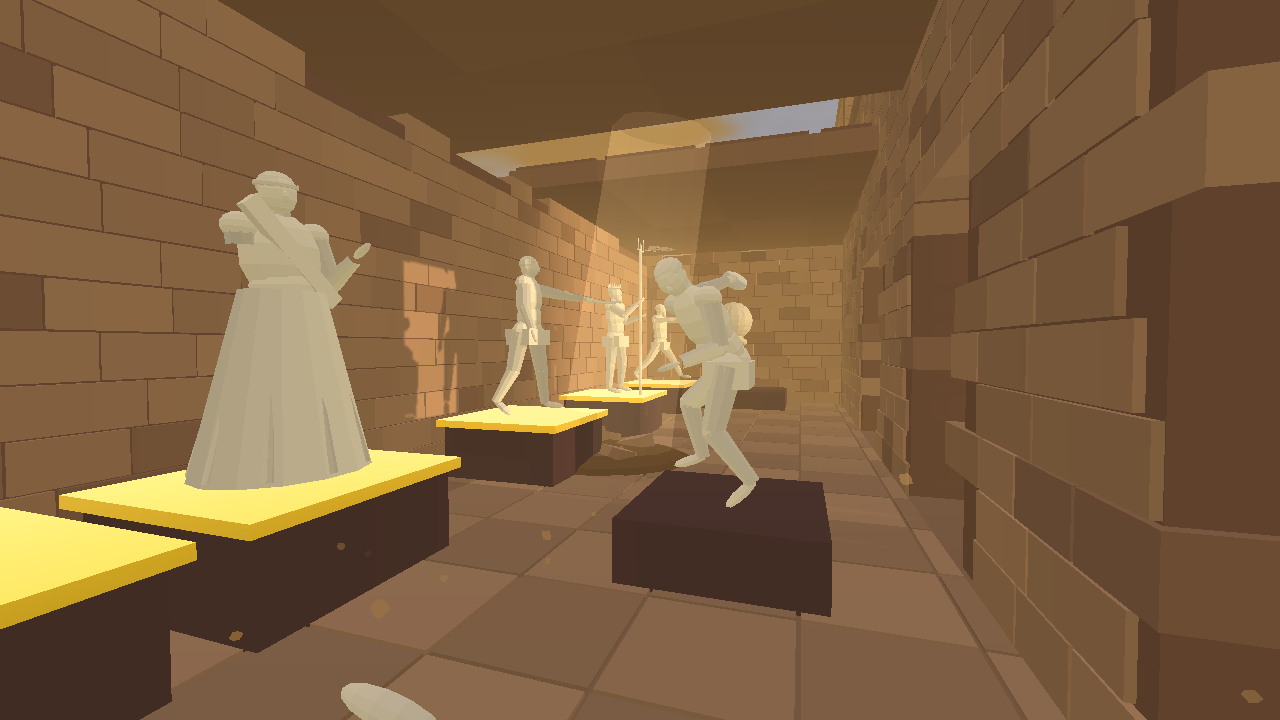
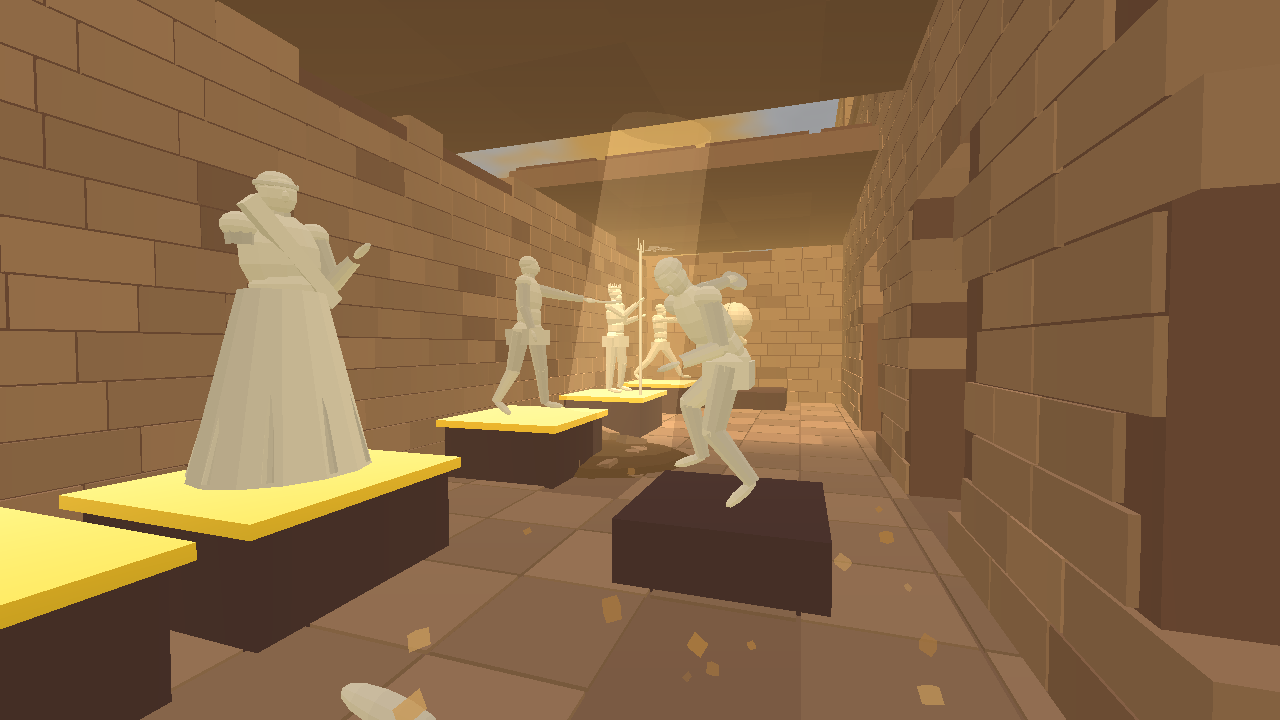
The Gods' temple: a gift of the gods in full — and +100 mana cells on its scrolls
- one check for every destructive effect: Temple.isGodGiftAt / temple.wards — blasts (Game.applyExplosion),
  Inspirius, Total Destruction, lightning stop on its golden ward (a dome of gold light, gold sparks — seen and
  heard); nobody within its bounds is thrown (CreatureImpact.apply) or shaken (the quake); no block of its
  ground breaks (TerrainData.set / removeSphere ask data.godGiftAt — Gather, Earthquake, Levitation Maxima…)
- its floor never throws a body out sideways: a landing's squat a little under it is lifted back onto it
- the scrolls and the Codex: the first use of each of the four spells gives +100 mana cells for good
- unit test: a blast at the temple breaks no block (elsewhere it digs as always)

Claude-Session: https://claude.ai/code/session_019o7nVNruUGPXgYFnbV15n6

diff --git a/src/ui/Codex.js b/src/ui/Codex.js
@@ -137,7 +137,7 @@ export const ITEMS = [
         { cat: 'magic', name: '🐉 Палочка дракона', desc: 'Остаётся от побеждённого дракона. Очень красивая: тёмно-алое дерево, по нему чешуйки, на конце чёрный коготь держит светящийся уголёк. Все огненные заклинания с ней на 60% сильнее: «Инферно», «Fire» (костёр горит дольше), «Fire Maxima», «Let the Hellfire Come». Маны — как обычно. Остальные заклинания — на 15% сильнее, как с любой палочкой.', dmg: 'огонь +60%', icon: 'assets/icons/inferno.png' },
     { cat: 'magic', name: '🌟 Костюм Высшего мага', desc: 'Тёмно-синий длинный камзол с плащом: золотые узоры, золотой пояс с сапфиром, светящиеся голубые руны. Даётся только тем, кто получил все ачивки, — появляется у вас в ячейке с золотой вспышкой. Наденьте руками: приложите к груди. Защищает как волшебная мантия (холод и простейшие заклинания не берут) и сверх того любое заклинание ранит на 40% слабее. Не слетает от «Disarmor»; при смерти падает рядом с телом, как всё остальное (его можно забрать). Надеть его может только Высший маг. В сундуках и у торговцев его нет.' },
     { cat: 'magic', name: 'Свиток', desc: 'Подожгите его в руке («Инферно»): +1–5 здоровья или +1–10 маны. Свитки «Lightning Strike» (золотая лента), «Thunderwave» (синяя), «To the Sun» (оранжевая), «Alive» (коричневая), «Let it rain» (серебряная), очень редкий «Авада Кедавра» (зелёная) и самый редкий «Total Destruction» (чёрная) учат эти заклинания — вне Творческого режима без свитка их нет. Действует на того, кто сжёг, и в «Выживании» тоже (здоровье там растёт и сразу лечит). Прочитать может каждый: поднесите вторую (пустую) руку раскрытой к концу свитка и сожмите пальцы на валике, потом разведите руки — он развернётся между ними; сведите — свернётся между руками; разожмите вторую руку — она отпустит валик, и свиток снова свёрнут в первой руке. Его можно бросить или убрать в карман.', dmg: '—', icon: 'assets/icons/inferno.png' },
-        { cat: 'magic', name: '📜 Свитки богов', desc: 'Четыре древних свитка лежат только в одном месте — в библиотеке заброшенного храма богов на Венере, каждый парит над своим пьедесталом: «Create a Planet» (синяя лента со звёздами) — создать планету, «Enlarge Planet» (коралловая) — увеличить планету, «Terraform Planet» (изумрудная) — терраформировать планету, «Wingardium Leviosa Super Maxima» (жемчужная) — двигать планету в космосе. Берутся рукой, раскрываются другой рукой, как любой свиток; выучит заклинание тот, кто сожжёт свиток («Инферно»). Взятый свиток через полторы минуты снова появляется на своём пьедестале — хватит всем игрокам.' },
+        { cat: 'magic', name: '📜 Свитки богов', desc: 'Четыре древних свитка лежат только в одном месте — в библиотеке заброшенного храма богов на Венере, каждый парит над своим пьедесталом: «Create a Planet» (синяя лента со звёздами) — создать планету, «Enlarge Planet» (коралловая) — увеличить планету, «Terraform Planet» (изумрудная) — терраформировать планету, «Wingardium Leviosa Super Maxima» (жемчужная) — двигать планету в космосе. Берутся рукой, раскрываются другой рукой, как любой свиток; выучит заклинание тот, кто сожжёт свиток («Инферно»). Первое использование каждого из этих четырёх заклинаний даёт +100 ячеек маны. Взятый свиток через полторы минуты снова появляется на своём пьедестале — хватит всем игрокам.' },
     { cat: 'magic', name: 'Книга заклинаний', desc: 'Падает с птицы-книги, если сбить её заклинанием. В руке её держат как настоящую: край книги между большим пальцем и остальными, пальцы лежат на обложке и не проходят сквозь страницы. Её можно бросить, убрать в карман, передать. Второй рукой возьмите книгу за край обложки (сожмите пальцы) и разведите руки — книга раскроется настолько, насколько разведены руки; наклоните кисти — наклонится и книга. Разожмёте руку ладонью вверх — книга ляжет на ладонь; упадёт она, только если разжать вытянутую руку. Чтобы листать, отпустите одну руку, подденьте кончиком указательного пальца край страницы и переведите её на другую сторону; отпустили раньше середины — страница ляжет обратно. Прочитанное заклинание выучено. Сожжёте книгу («Инферно» с книгой в руке, пламя или огонь) — выучите все её заклинания.', icon: 'assets/icons/gather.svg' },
     { cat: 'magic', name: '📘🛡 Книга защиты (летающая)', desc: 'Особая книга-птица: тёмно-синяя обложка с серебряной каймой, серебряный щит на каждой обложке и слабое голубое сияние вокруг. Встречается так же часто, как обычные книги-птицы. Её бережёт магия: «Авада Кедавра», все дуэльные заклинания, лучи, взрывы, стрелы, «Левиоса», ветер отскакивают от её сияния искрой. Сбить её можно только прямым попаданием огня (пламя «Инферно», «Let the Hellfire Come») или ледяным шаром: наберите «Waterbollow», заморозьте его «Frozen» и бросьте (или ударьте) в книгу. Упавшая книга чуть опалена, но читается. В ней группа «Защита дома» — Protection House, Protection Invisible, Protection House Grant: прочитали страницу любого из них — выучили все три. В свитках, сундуках и лавках этих заклинаний нет. В Творческом режиме книга лежит на пьедестале.', icon: 'assets/icons/ward.svg' },
     { cat: 'magic', name: '📘 Быстрая летающая книга', desc: 'Особая книга-птица: голубая обложка, серебряная кайма, за ней тянется голубой след. Летает так же, как обычные, только вдвое быстрее и юрче; встречается в четыре раза реже обычной. Сбивают и ловят её так же (заклинание, стрела, «Левиоса», «Акцио»). В её книге одно заклинание — «Флайн». Раскрыть и прочитать её можно, но выучит «Флайн» только тот, кто её сожжёт: держите книгу в руке и скажите «Инферно», направьте на неё пламя или подержите её в огне (костёр, горящее дерево) — она сгорит, и вы научитесь летать. Только она учит «Флайн» (свитков полёта больше нет). В Творческом режиме она лежит на пьедестале.', icon: 'assets/icons/flight.svg' },

diff --git a/src/game/ItemTypes.js b/src/game/ItemTypes.js
@@ -453,7 +453,7 @@ export function describeItem(it) {
             return { title: '🛡 ' + SHIELD_KINDS[it.type || 0].name + (it.magic ? ' (волшебный)' : ''), color: it.magic ? 0x9fd8ff : 0xaaaaaa, lines: it.magic ? [`Своя сила: <b>${it.max}</b> (восстанавливается)`, 'Держит заклинания и удары; слабый — сильное заклинание его разобьёт'] : ['Держит удары и слабые заклинания', 'Сильное заклинание его разобьёт'] };
         case 'scroll':
             if (it.stat === 'flight') return { title: '📜 Свиток полёта', color: 0x9fd8ff, lines: ['Сожгите его («Инферно»): вы научитесь заклинанию <b>«Флайн»</b>'] };
-            if (it.stat === 'spell') return { title: `📜 Свиток «${SPELL_LABEL[it.spell] || it.spell}»`, color: SPELL_RIBBON[it.spell] || 0xffe9a8, lines: [`Сожгите его («Инферно»): вы научитесь заклинанию <b>«${SPELL_LABEL[it.spell] || it.spell}»</b>`, ...(it.spell === 'LetItRain' ? ['Рука или палочка к небу и «Let it rain»: гроза с ливнем на 2 игровых часа'] : []), ...(it.spell === 'CreateHouse' ? ['Бросьте рядом 3 шерсти и 10 песка, нужно 3 дерева неподалёку; палочку на них и «Create a House» — 20 маны и 0,5 в секунду 10 секунд'] : it.spell === 'ImproveHouse' ? ['Ресурсы рядом с домом, палочку на них и «Improve a House»: дом растёт до 5-го уровня, каждый уровень вдвое дороже'] : []), ...(it.spell === 'CreateBoard' ? ['Его можно выучить и из книги птицы-книги'] : []), ...(TEMPLE_SCROLL_LINE[it.spell] ? [TEMPLE_SCROLL_LINE[it.spell], 'Свиток из библиотеки заброшенного храма богов'] : [])] };
+            if (it.stat === 'spell') return { title: `📜 Свиток «${SPELL_LABEL[it.spell] || it.spell}»`, color: SPELL_RIBBON[it.spell] || 0xffe9a8, lines: [`Сожгите его («Инферно»): вы научитесь заклинанию <b>«${SPELL_LABEL[it.spell] || it.spell}»</b>`, ...(it.spell === 'LetItRain' ? ['Рука или палочка к небу и «Let it rain»: гроза с ливнем на 2 игровых часа'] : []), ...(it.spell === 'CreateHouse' ? ['Бросьте рядом 3 шерсти и 10 песка, нужно 3 дерева неподалёку; палочку на них и «Create a House» — 20 маны и 0,5 в секунду 10 секунд'] : it.spell === 'ImproveHouse' ? ['Ресурсы рядом с домом, палочку на них и «Improve a House»: дом растёт до 5-го уровня, каждый уровень вдвое дороже'] : []), ...(it.spell === 'CreateBoard' ? ['Его можно выучить и из книги птицы-книги'] : []), ...(TEMPLE_SCROLL_LINE[it.spell] ? [TEMPLE_SCROLL_LINE[it.spell], 'Первое использование этого заклинания даст <b>+100 ячеек маны</b>', 'Свиток из библиотеки заброшенного храма богов'] : [])] };
             return { title: '📜 Свиток', color: 0xffe9a8, lines: [it.stat === 'hp' ? `Сожгите его: здоровье +<b>${it.amount}</b>` : `Сожгите его: мана +<b>${it.amount}</b>`] };
         case 'book':
             if (it.runbook) return { title: '📕 Бегущая книга', color: 0xffd23f, lines: ['Раскройте её двумя руками и прочитайте единственную страницу:', 'бег на <b>30%</b> быстрее, пока вы живы', 'Это не заклинание — только быстрота'] };

diff --git a/src/game/Temple.js b/src/game/Temple.js
@@ -57,10 +57,21 @@ function materials(renderer) {
  * hold everybody up (players, villagers, animals, things), its walls push bodies out, its roofs are
  * ceilings, spells and sight stop at it, hands and blades touch it (sphereDepth).
  */
+/**
+ * Is (x, y, z) within the bounds of a gift of the gods — the Temple of the Gods (all of it: walls, statues,
+ * shelves, books, pedestals, its floor and ground)? r: the reach of a blast round the point.
+ * Every destructive effect asks this (Game.applyExplosion, lightning, Inspirius, Total Destruction,
+ * CreatureImpact, the quake; blocks: Terrain.set / removeSphere through data.godGiftAt).
+ */
+export function isGodGiftAt(game, x, y, z, r = 0) {
+    _v.set(x, y, z);
+    return !!game?.temple?.wards?.(_v, r);
+}
+
 export class TempleCollider {
     constructor(spot, solids) {
         this.enabled = true;
-        this.boxes = solids.map((b) => ({ ...solidToWorld(spot, b), statue: !!b.statue, godGift: true }));
+        this.boxes = solids.map((b) => ({ ...solidToWorld(spot, b), statue: !!b.statue, floor: !!b.floor, godGift: true }));
         const f = templeFootprint(spot);
         this.aabb = f;
         this.grid = new Map();
@@ -90,7 +101,7 @@ export class TempleCollider {
         const list = this._at(x, z);
         for (let i = 0; i < list.length; i++) {
             const b = list[i];
-            if (x < b.minX || x > b.maxX || z < b.minZ || z > b.maxZ || b.maxY > reachY + 0.05) continue;
+            if (x < b.minX || x > b.maxX || z < b.minZ || z > b.maxZ || b.maxY > reachY + (b.floor ? 2.2 : 0.05)) continue;
             if (y === null || b.maxY > y) y = b.maxY;
         }
         return y;
@@ -120,7 +131,9 @@ export class TempleCollider {
                 if (pos.x + r <= b.minX || pos.x - r >= b.maxX || pos.z + r <= b.minZ || pos.z - r >= b.maxZ) continue;
                 // (low stone the body is already over — the podium, a plinth: a floor to stand on, not a wall
                 // to be thrown out of sideways)
-                if (b.maxY <= feetY + h * 0.5 && pos.x > b.minX && pos.x < b.maxX && pos.z > b.minZ && pos.z < b.maxZ) continue;
+                // (the feet given may be low by a landing's squat: up to a step and a half more still counts as under foot;
+                //  the temple's floor is never a wall to be thrown out of — floorAt lifts a sunk body onto it)
+                if ((b.floor || b.maxY <= feetY + Math.max(h * 0.5, stepHeight + 1.6)) && pos.x > b.minX && pos.x < b.maxX && pos.z > b.minZ && pos.z < b.maxZ) continue;
                 // out by the shortest way
                 const dl = pos.x + r - b.minX, dr = b.maxX - (pos.x - r), dn = pos.z + r - b.minZ, df = b.maxZ - (pos.z - r);
                 const m = Math.min(dl, dr, dn, df);
@@ -254,6 +267,9 @@ export class Temple {
         this.group = group;
         this.collider = new TempleCollider(s, plan.solids);
         g.collision?.addMover?.(this.collider);
+        // its ground is a gift of the gods too: no spell breaks a block within its bounds (Terrain.set / removeSphere)
+        const data = g.world?.terrain?.data, f = this.collider.aabb;
+        if (data) data.godGiftAt = (x, _L, z) => x >= f.minX - 1 && x <= f.maxX + 1 && z >= f.minZ - 1 && z <= f.maxZ + 1;
         // the four pedestals (the Creative ones: gifts of the gods) and their scrolls
         for (const p of plan.pedestals) {
             const w = templeToWorld(s, p.x, 0, p.z);
@@ -274,6 +290,8 @@ export class Temple {
         const g = this.game;
         this._wait = null;
         if (this.collider) { g.collision?.removeMover?.(this.collider); this.collider = null; }
+        const data = g.world?.terrain?.data;
+        if (data?.godGiftAt) data.godGiftAt = null;
         if (this.group) {
             for (const c of [...this.group.children, ...(this._pending || [])]) c.geometry?.dispose();
             this._pending = [];

diff --git a/src/game/Game.js b/src/game/Game.js
@@ -285,7 +285,7 @@ export class Game {
             storm: (origin) => this.storm?.start(origin, 13),
             sun: (origin) => this.sun?.cast(origin),
             rain: () => this.storm?.startRain(), // («Let it rain»: the whole world, everybody sees it)
-            lightningAt: (point, casterId) => { point = this._wardLightning(point, casterId); this.storm?.endIn(3); this.books?.hitAt(point, 3); this.houses?.hitAt(point, 3); this.animals?.hitAt(point, 3, 12, casterId); if (this.authority) { this.castleLife?.alarm(point, 'blast', casterId, 3); this.spiders?.hitAt(point, 3, 20, 'Lightning', casterId); this.phoenixes?.hitAt(point, 3, 20, 'Lightning', casterId); this.dragons?.hitAt(point, 3, 40, 'Lightning', casterId); this.dragons?.noise(point, casterId); this.iceCastle?.hitAt(point, 3, 20, 'Lightning', casterId); this.castleLife?.hitAt(point, 3, 12, casterId); this.livingTrees?.hitAt(point, 3, 20, 'Lightning'); this.ships?.lightningAt(point, casterId); this.ships?.crew.hitAt(point, 3, 12, casterId, 'Lightning'); this.carriages?.hitAt(point, 3, 30, casterId, 'lightning'); } },
+            lightningAt: (point, casterId) => { if (this.temple?.wards(point, 3)) { this.temple.wardHit(point, 3); return; } point = this._wardLightning(point, casterId); this.storm?.endIn(3); this.books?.hitAt(point, 3); this.houses?.hitAt(point, 3); this.animals?.hitAt(point, 3, 12, casterId); if (this.authority) { this.castleLife?.alarm(point, 'blast', casterId, 3); this.spiders?.hitAt(point, 3, 20, 'Lightning', casterId); this.phoenixes?.hitAt(point, 3, 20, 'Lightning', casterId); this.dragons?.hitAt(point, 3, 40, 'Lightning', casterId); this.dragons?.noise(point, casterId); this.iceCastle?.hitAt(point, 3, 20, 'Lightning', casterId); this.castleLife?.hitAt(point, 3, 12, casterId); this.livingTrees?.hitAt(point, 3, 20, 'Lightning'); this.ships?.lightningAt(point, casterId); this.ships?.crew.hitAt(point, 3, 12, casterId, 'Lightning'); this.carriages?.hitAt(point, 3, 30, casterId, 'lightning'); } },
             birdRay: (o, d, len, width, name) => {
                 len = this.wards?.clipRay(o, d, len) ?? len; // (a house's sphere stops it from outside)
                 this.books?.hitRay(o, d, len, width);

diff --git a/tests/unit/gods-temple.test.js b/tests/unit/gods-temple.test.js
@@ -55,3 +55,35 @@ test('one place on a planet from the seed: the flattest', () => {
     assert.deepEqual(a, b);
     assert.ok(a.x > 60, 'on the flat side');
 });
+
+test('a gift of the gods: a blast at the temple breaks no block, throws nobody', async () => {
+    const { TerrainData } = await import('../../src/world/Terrain.js');
+    const { Temple, isGodGiftAt } = await import('../../src/game/Temple.js');
+    const THREE = await import('three');
+    const data = new TerrainData();
+    data.generate({ seed: 3 });
+    const added = [];
+    const game = {
+        seed: 3, scene: new THREE.Scene(), renderer: null, character: { group: { position: new THREE.Vector3() } },
+        world: { terrain: { data }, createPedestal: () => 1.97 },
+        collision: { addMover: (m) => added.push(m), removeMover: () => {} },
+        items: { spawnLoose: () => {}, loose: new Map() },
+    };
+    const tm = game.temple = new Temple(game);
+    tm.place({ x: 40, y: data.surfaceY(40, 40), z: 40, rot: 0 });
+    assert.equal(added.length, 1, 'its stone in the collision world');
+    // the ground under it: a blast takes nothing (outside its bounds it does)
+    const y = data.surfaceY(40, 40);
+    assert.deepEqual(data.removeSphere(40, y, 40, 4), [], 'no block of its ground breaks');
+    data.set(40, data.topLayer(40, 40), 40, 0);
+    assert.notEqual(data.get(40, data.topLayer(40, 40), 40), 0, 'nor one by one');
+    assert.ok(isGodGiftAt(game, 40, y + 5, 40), 'within its bounds');
+    assert.ok(!isGodGiftAt(game, 40, y, 900), 'far away: not');
+    assert.ok(data.removeSphere(900, data.surfaceY(900, 900), 900, 3).length > 0, 'elsewhere a blast digs as always');
+    // a creature in the temple is not thrown (CreatureImpact.apply asks the ward first)
+    const { CreatureImpact } = await import('../../src/game/CreatureImpact.js');
+    const src = CreatureImpact.prototype.apply.toString();
+    assert.ok(/temple\?\.wards/.test(src), 'CreatureImpact asks the golden ward');
+    tm.remove();
+    assert.equal(data.godGiftAt, null, 'gone with it');
+});

diff --git a/src/world/Terrain.js b/src/world/Terrain.js
@@ -1370,6 +1370,8 @@ export class TerrainData {
 
     set(ix, L, iz, type) {
         if (L < MIN_LAYER || L > MAX_LAYER) return;
+        // (a gift of the gods — the Temple of the Gods' ground: no spell breaks or changes a block of it)
+        if (this.godGiftAt && this.godGiftAt(ix, L, iz) && this.get(ix, L, iz) !== BLOCK.AIR) return;
         const c = this.chunk(ix >> SHIFT, iz >> SHIFT);
         if (c.empty) return; // (nothing is built in the empty zone between the planets)
         c.blocks[((L - MIN_LAYER) * CHUNK + (iz & MASK)) * CHUNK + (ix & MASK)] = type;
@@ -1553,6 +1555,7 @@ export class TerrainData {
                     const type = c.blocks[idx];
                     if (type === BLOCK.AIR || type === BLOCK.BEDROCK || type === BLOCK.WATER) continue;
                     if (keep && keep(ix, by, iz)) continue; // (inside a house's sphere of protection)
+                    if (this.godGiftAt && this.godGiftAt(ix, by, iz)) continue; // (a gift of the gods: the temple's ground)
                     c.blocks[idx] = BLOCK.AIR;
                     if (L < c.minOpen) c.minOpen = L;
                     hollowAt(c, lz * CHUNK + lx, L);

diff --git a/src/world/GodsTemple.js b/src/world/GodsTemple.js
@@ -562,7 +562,8 @@ export function templePlan(seed = 1) {
     const { X0, X1, Z0, Z1, HALL_H, GAL_H, LIB_H, RISE, DEPTH } = TEMPLE;
     // ── the podium and its stairs ──
     const SZ = 14.5; // the podium's front edge (stairs beyond)
-    B.abox('stone', X0, -DEPTH, Z0, X1, 0, SZ, FLOOR_B);
+    B.abox('stone', X0, -DEPTH, Z0, X1, 0, SZ, FLOOR_B, false);
+    B.solid(X0, -DEPTH, Z0, X1, 0, SZ, { floor: true }); // (the floor: a body a little sunk into it — a landing's squat — is lifted back)
     for (let i = 0; i < 6; i++) { // (six steps down to the ground at the front)
         const y = -(i + 1) * RISE / 6, z = SZ + i * 0.55;
         B.abox('stone', -18, -DEPTH, z, 18, y + RISE / 6, z + 0.55, tint(STONE, 0.95 + (i % 2) * 0.05));

diff --git a/src/game/CreatureImpact.js b/src/game/CreatureImpact.js
@@ -198,6 +198,7 @@ export class CreatureImpact {
         const K = ck && KINDS[ck];
         if (!K || !c.group || !K.alive(c)) return 'none';
         if (!this.auth) return 'none';
+        if (this.game.temple?.wards?.(c.group.position)) return 'none'; // (in the Gods' temple: its golden ward — nobody is thrown)
         if (c.lev) return 'none'; // (held up by Leviosa: the magic holds the body)
         if (K.immune?.(this.game, c, o)) return 'none'; // (the kind's own «не действует»: a phoenix in the air and an earthquake)
         // in a house's sphere of protection: a push / a spell from outside doesn't reach it (HouseWards.js)

diff --git a/src/game/TotalDestruction.js b/src/game/TotalDestruction.js
@@ -106,6 +106,7 @@ export class TotalDestruction {
         const g = this.game;
         const data = g.world?.terrain?.data;
         const f = form(max);
+        if (g.temple?.wards?.(p, f.R)) { g.temple.wardHit(p, f.R); g.sound?.playRumble?.(p, g.character.group.position); return null; } // (the Gods' temple: its golden ward)
         const d = { p: p.clone(), by, mine, max, ...f, P: TOTAL.POWER * f.harm, t: 0, done: false, collapsed: false, sample: data ? ruinSample(data, p.x, p.z, f.R, 400, p.y) : [], crash: 0 };
         this.list.push(d);
         g.sound?.playRumble?.(d.p, g.character.group.position);

diff --git a/src/game/Inspirius.js b/src/game/Inspirius.js
@@ -318,6 +318,8 @@ export class Inspirius {
     explode(p, by) {
         const g = this.game;
         p = p.clone();
+        // (the Gods' temple: the blast stops on its golden ward — seen and heard, nothing breaks, nobody flies)
+        if (g.temple?.wards?.(p, INSP.RUIN_R)) { g.temple.wardHit(p, INSP.RUIN_R); g.sound?.playExplosion?.(p, g.character?.group.position, 1); return; }
         const me = g.character?.group.position;
         // a house's sphere of protection breaks at once (the host decides)
         g.wards?.struck?.(p, INSP.RUIN_R, INSP.NAME, by);

diff --git a/src/game/Quake.js b/src/game/Quake.js
@@ -58,6 +58,7 @@ export class Quake {
         if (!g.character || !g.fx) return;
         const d = g.character.group.position.distanceTo(front);
         if (d > QUAKE.SHAKE_R) return;
+        if (g.temple?.wards?.(g.character.group.position)) return; // (in the Gods' temple: its golden ward holds still)
         const s = (power > 1 ? 1.6 : 0.9) * (1 - d / QUAKE.SHAKE_R);
         g.fx.shake = Math.max(g.fx.shake || 0, s);
     }
